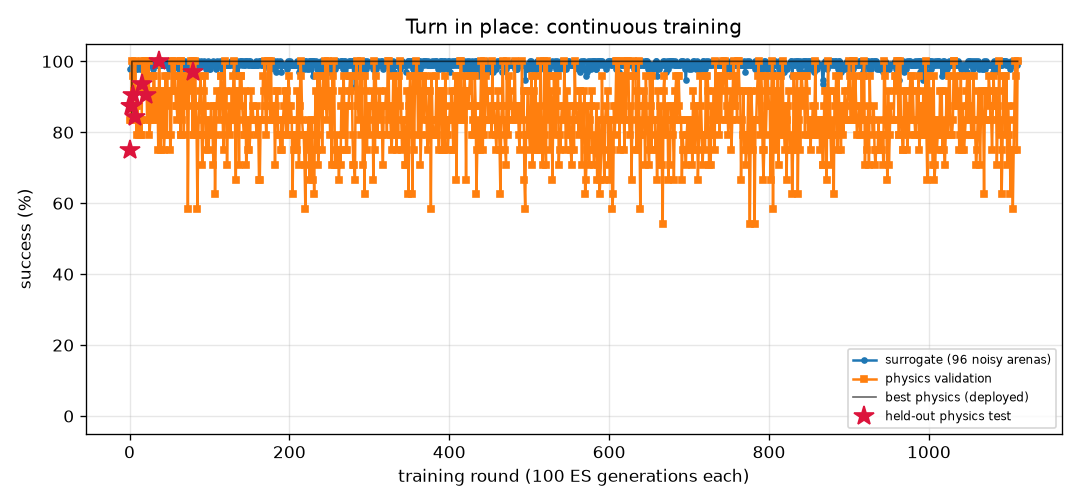
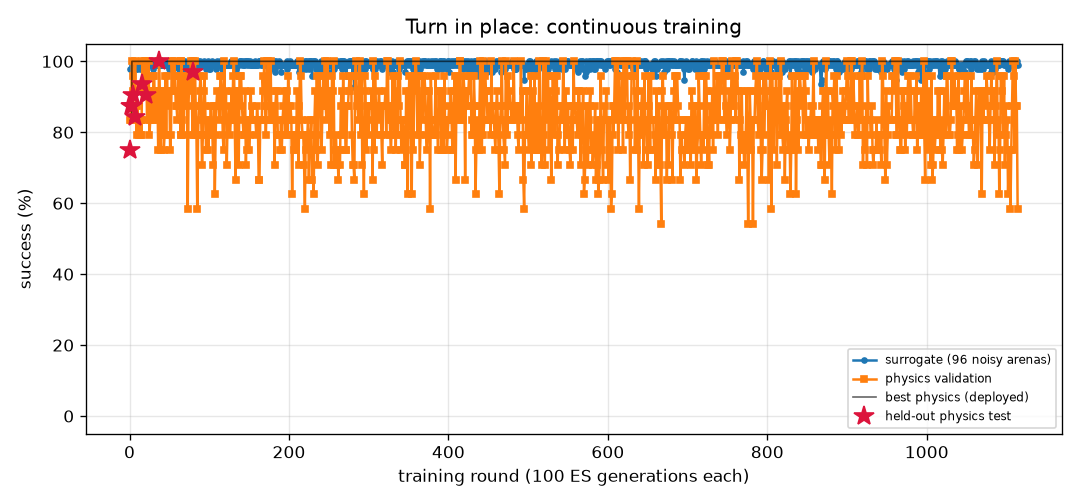
FlyLab: continuous training progress
- walk_forward: optimal, physics val 100% of 24, round 411
- turn: optimal, physics val 100% of 24, round 1114
- goto: optimal, physics val 100% of 24, round 317
- odor_seek: optimal, physics val 100% of 24, round 257
- odor_avoid: optimal, physics val 100% of 24, round 966
- light_seek: optimal, physics val 100% of 24, round 518
- light_avoid: optimal, physics val 100% of 24, round 683

diff --git a/projects/09_flylab/training/odor_avoid/REPORT.md b/projects/09_flylab/training/odor_avoid/REPORT.md
@@ -1,14 +1,14 @@
 # Escape a bad smell (`odor_avoid`) — training report
 
-*Auto-generated by `train_brains.py`, last updated 2026-11-17T22:13:48.*
+*Auto-generated by `train_brains.py`, last updated 2026-11-18T02:02:24.*
 
 ![curve](curve.png)
 
 | | |
 |---|---|
-| rounds | 962 |
-| ES generations | 96200 |
-| physics runs | 20394 |
+| rounds | 966 |
+| ES generations | 96600 |
+| physics runs | 20490 |
 | status | **optimal** |
 | best brain | round 373: physics validation **100%** on 24 arenas, surrogate 97% |
 | held-out physics test | **97%** on 32 unseen arenas (95% CI 84%-99%) (errors: [62.0, 57.4, 62.6, 61.9, 59.0, 61.6, 56.5, 60.7, 31.7, 60.9, 63.1, 57.1, 61.1, 62.1, 61.5, 60.2, 62.2, 55.2, 62.1, 54.2, 61.3, 62.0, 58.0, 61.9, 59.8, 56.5, 56.3, 56.4, 56.3, 57.7, 61.9, 32.4]) |
@@ -17,10 +17,6 @@ Physics error per arena: mm gained away from source (> 6 without first approachi
 
 | round | level | gens | sigma | surrogate | physics val | val errors | test | note |
 |---:|---:|---:|---:|---:|---:|---|---:|---|
-| 923 | 3 | 92300 | 0.025 | 94% | 100% | [62.9, 60.7, 58.4, 61.2, 58.2, 51.8, 61.2, 58.9, 61.5, 34.1, 56.7, 59.6, 52.0, 55.2, 31.0, 60.2, 60.6, 47.2, 52.2, 60.7, 60.3, 46.1, 59.7, 62.4] |  |  |
-| 924 | 3 | 92400 | 0.028 | 95% | 100% | [63.0, 60.6, 58.0, 55.1, 61.5, 62.1, 61.1, 61.8, 60.1, 61.7, 60.9, 60.7, 52.8, 57.8, 50.8, 61.5, 59.5, 61.7, 53.5, 57.6, 60.6, 62.2, 57.9, 60.6] |  |  |
-| 925 | 3 | 92500 | 0.027 | 95% | 96% | [61.2, 60.3, 55.4, 60.8, 61.7, 61.8, 61.7, 61.0, 61.4, 60.9, 57.3, 61.3, 53.3, 56.4, 38.4, 61.8, 61.5, 61.9, 55.0, 58.9, 61.8, 61.9, 60.7, 61.3] |  | restart from best |
-| 926 | 3 | 92600 | 0.026 | 96% | 96% | [61.3, 58.8, 57.0, 60.4, 62.1, 60.4, 61.6, 49.9, 60.3, 56.1, 61.6, 61.7, 54.8, 57.0, 50.0, 61.1, 61.7, 60.6, 55.0, 59.9, 62.2, 61.6, 59.3, 30.1] |  |  |
 | 927 | 3 | 92700 | 0.026 | 94% | 100% | [61.5, 58.9, 56.6, 60.8, 60.5, 61.8, 61.6, 39.5, 61.9, 48.9, 58.9, 61.1, 51.8, 55.3, 46.6, 61.9, 61.8, 60.0, 54.6, 56.8, 61.2, 61.6, 59.4, 62.2] |  |  |
 | 928 | 3 | 92800 | 0.028 | 97% | 96% | [59.6, 55.6, 56.5, 58.8, 60.9, 61.1, 60.5, 54.3, 61.0, 43.8, 59.6, 61.0, 53.7, 57.6, 44.0, 60.1, 61.4, 59.6, 54.5, 55.0, 60.9, 42.9, 59.3, 50.1] |  |  |
 | 929 | 3 | 92900 | 0.026 | 95% | 100% | [60.4, 53.7, 56.4, 53.8, 61.3, 60.2, 58.5, 46.7, 59.2, 43.3, 60.7, 61.2, 53.7, 56.5, 50.8, 60.4, 61.7, 60.2, 54.1, 52.7, 61.5, 60.0, 58.1, 54.7] |  | restart from best |
@@ -57,3 +53,7 @@ Physics error per arena: mm gained away from source (> 6 without first approachi
 | 960 | 3 | 96000 | 0.026 | 95% | 96% | [60.4, 57.2, 54.9, 58.8, 59.9, 59.2, 59.1, 44.5, 59.5, 59.4, 60.0, 59.8, 53.6, 55.1, 47.1, 59.5, 59.7, 59.7, 53.7, 55.2, 59.9, 58.2, 57.3, 57.7] |  |  |
 | 961 | 3 | 96100 | 0.027 | 96% | 92% | [59.0, 57.6, 54.0, 57.9, 58.5, 58.7, 58.7, 46.7, 59.2, 56.7, 57.1, 58.7, 50.4, 50.8, 35.2, 57.7, 59.0, 59.2, 48.1, 56.3, 58.8, 55.7, 56.9, 56.7] |  | restart from best |
 | 962 | 3 | 96200 | 0.026 | 97% | 96% | [62.9, 59.2, 56.0, 61.5, 62.2, 61.9, 61.1, 41.9, 61.0, 58.1, 61.8, 61.7, 52.2, 55.3, 36.6, 60.4, 62.2, 61.7, 55.0, 57.2, 62.2, 60.5, 58.9, 57.4] |  |  |
+| 963 | 3 | 96300 | 0.026 | 93% | 96% | [63.3, 60.8, 56.4, 60.9, 61.3, 62.6, 60.6, 63.4, 61.9, 62.6, 60.4, 61.5, 44.3, 54.5, 37.1, 60.9, 61.1, 62.2, 53.4, 61.1, 61.3, 63.4, 61.3, 63.6] |  |  |
+| 964 | 3 | 96400 | 0.028 | 95% | 92% | [60.0, 58.6, 56.1, 59.5, 61.3, 61.9, 61.1, 61.9, 61.2, 61.2, 56.5, 60.9, 49.0, 52.8, 36.0, 60.8, 60.8, 60.0, 51.0, 57.8, 60.9, 61.8, 56.2, 62.0] |  |  |
+| 965 | 3 | 96500 | 0.027 | 96% | 100% | [57.4, 50.0, 53.5, 53.8, 55.3, 55.6, 53.2, 45.2, 53.5, 54.2, 53.8, 57.3, 47.6, 52.8, 28.2, 53.9, 57.4, 55.0, 49.5, 50.0, 57.0, 52.6, 54.1, 53.5] |  | restart from best |
+| 966 | 3 | 96600 | 0.026 | 96% | 100% | [63.0, 60.9, 57.8, 58.8, 60.4, 59.4, 61.8, 18.9, 60.6, 52.6, 38.0, 60.1, 51.9, 55.6, 38.5, 61.4, 60.5, 59.0, 52.2, 55.4, 59.8, 37.5, 58.6, 60.4] |  |  |

diff --git a/projects/09_flylab/training/turn/REPORT.md b/projects/09_flylab/training/turn/REPORT.md
@@ -1,14 +1,14 @@
 # Turn in place (`turn`) — training report
 
-*Auto-generated by `train_brains.py`, last updated 2026-11-18T01:13:50.*
+*Auto-generated by `train_brains.py`, last updated 2026-11-18T01:41:07.*
 
 ![curve](curve.png)
 
 | | |
 |---|---|
-| rounds | 1111 |
-| ES generations | 111100 |
-| physics runs | 26910 |
+| rounds | 1114 |
+| ES generations | 111400 |
+| physics runs | 26982 |
 | status | **optimal** |
 | best brain | round 80: physics validation **100%** on 24 arenas, surrogate 100% |
 | held-out physics test | **97%** on 32 unseen arenas (95% CI 84%-99%) (errors: [1.6, 3.3, 6.3, 3.7, 1.1, 0.4, 2.4, 2.9, 0.1, 2.6, 0.5, 2.7, 1.5, 3.1, 4.5, 0.2, 0.5, 1.1, 2.0, 4.4, 2.8, 3.2, 0.3, 2.2, 0.5, 3.0, 0.3, 5.4, 0.4, 1.0, 4.7, 10.7]) |
@@ -17,9 +17,6 @@ Physics error per arena: deg from target heading (< 20 = success).
 
 | round | level | gens | sigma | surrogate | physics val | val errors | test | note |
 |---:|---:|---:|---:|---:|---:|---|---:|---|
-| 1072 | 3 | 107200 | 0.025 | 100% | 92% | [2.9, 1.1, 5.8, 3.3, 2.7, 2.2, 5.9, 5.8, 6.4, 1.8, 6.1, 2.2, 1.4, 1.5, 3.5, 2.5, 2.3, 2.7, 2.9, 2.4, 3.4, 1.8, 7.7, 6.3] |  | restart from best |
-| 1073 | 3 | 107300 | 0.024 | 99% | 92% | [3.2, 8.2, 1.1, 3.7, 2.3, 1.3, 3.8, 0.6, 3.9, 1.7, 4.1, 0.7, 2.5, 2.0, 3.5, 1.2, 1.1, 1.2, 1.7, 1.6, 5.8, 0.4, 2.5, 2.4] |  |  |
-| 1074 | 3 | 107400 | 0.025 | 99% | 88% | [1.9, 1.7, 5.7, 0.8, 16.5, 1.5, 6.0, 5.4, 6.9, 14.9, 3.7, 1.8, 0.4, 0.4, 3.1, 4.0, 1.7, 1.7, 1.2, 1.6, 2.6, 0.1, 6.7, 6.9] |  |  |
 | 1075 | 3 | 107500 | 0.025 | 99% | 96% | [4.7, 8.6, 2.3, 3.1, 1.0, 0.2, 2.6, 0.6, 2.9, 0.5, 1.8, 0.6, 3.0, 3.8, 1.1, 1.6, 0.7, 0.3, 0.9, 0.3, 5.6, 0.1, 5.0, 0.1] |  |  |
 | 1076 | 3 | 107600 | 0.025 | 99% | 92% | [7.8, 9.8, 2.6, 3.0, 1.5, 4.2, 2.0, 3.3, 2.0, 2.7, 1.8, 3.0, 3.5, 4.7, 1.7, 2.7, 1.7, 1.8, 2.8, 0.2, 6.0, 2.9, 2.5, 0.9] |  | restart from best |
 | 1077 | 3 | 107700 | 0.024 | 99% | 83% | [3.7, 5.3, 2.2, 1.2, 12.6, 3.2, 3.9, 0.8, 5.8, 1.1, 4.2, 1.1, 0.9, 2.5, 3.6, 0.4, 1.3, 3.1, 0.7, 0.2, 4.2, 1.7, 6.3, 5.3] |  |  |
@@ -57,3 +54,6 @@ Physics error per arena: deg from target heading (< 20 = success).
 | 1109 | 3 | 110900 | 0.024 | 99% | 96% | [6.6, 9.0, 5.4, 4.9, 2.2, 3.4, 2.2, 0.1, 3.1, 0.9, 2.0, 2.4, 0.9, 5.2, 1.8, 2.1, 2.2, 1.6, 2.6, 2.9, 5.4, 0.5, 3.1, 3.2] |  |  |
 | 1110 | 3 | 111000 | 0.025 | 99% | 75% | [2.3, 7.2, 0.6, 1.3, 4.1, 1.6, 5.3, 8.0, 5.8, 0.8, 5.5, 0.9, 3.9, 2.1, 3.7, 2.1, 0.2, 2.1, 7.4, 0.2, 4.8, 3.8, 4.2, 7.0] |  |  |
 | 1111 | 3 | 111100 | 0.025 | 100% | 100% | [1.5, 3.5, 4.1, 0.2, 1.9, 1.2, 6.3, 7.9, 5.2, 0.1, 4.2, 1.2, 0.0, 1.2, 4.4, 2.0, 1.5, 2.8, 6.2, 2.1, 4.4, 1.6, 6.1, 5.3] |  |  |
+| 1112 | 3 | 111200 | 0.024 | 99% | 88% | [4.9, 9.7, 7.3, 1.8, 1.1, 0.9, 3.8, 5.2, 3.4, 0.4, 2.5, 1.3, 1.7, 4.0, 2.4, 0.5, 1.2, 0.5, 0.7, 0.1, 3.1, 0.6, 3.0, 0.8] |  | restart from best |
+| 1113 | 3 | 111300 | 0.024 | 100% | 88% | [8.1, 8.3, 4.9, 3.6, 4.4, 5.7, 3.0, 2.7, 3.7, 1.3, 3.2, 1.8, 0.7, 4.3, 3.8, 0.2, 2.2, 1.7, 0.2, 2.4, 6.9, 0.6, 4.5, 4.9] |  |  |
+| 1114 | 3 | 111400 | 0.024 | 99% | 58% | [9.1, 10.9, 4.9, 3.8, 0.6, 5.6, 3.9, 6.6, 4.1, 1.9, 0.8, 2.2, 0.5, 2.7, 1.9, 1.2, 3.8, 0.5, 1.4, 3.9, 6.3, 1.3, 2.5, 3.1] |  |  |

diff --git a/projects/09_flylab/training/light_avoid/REPORT.md b/projects/09_flylab/training/light_avoid/REPORT.md
@@ -1,14 +1,14 @@
 # Hide from light (`light_avoid`) — training report
 
-*Auto-generated by `train_brains.py`, last updated 2026-11-17T22:20:03.*
+*Auto-generated by `train_brains.py`, last updated 2026-11-18T02:02:31.*
 
 ![curve](curve.png)
 
 | | |
 |---|---|
-| rounds | 681 |
-| ES generations | 68100 |
-| physics runs | 16616 |
+| rounds | 683 |
+| ES generations | 68300 |
+| physics runs | 16664 |
 | status | **optimal** |
 | best brain | round 159: physics validation **100%** on 24 arenas, surrogate 100% |
 | held-out physics test | **100%** on 32 unseen arenas (95% CI 89%-100%) (errors: [14.4, 56.1, 58.0, 57.9, 57.5, 14.0, 14.4, 56.6, 56.8, 13.3, 14.1, 56.6, 57.6, 13.1, 57.3, 55.9, 57.2, 55.0, 55.2, 53.9, 55.2, 12.4, 53.8, 53.7, 14.1, 13.7, 55.0, 57.8, 56.2, 13.1, 52.8, 56.5]) |
@@ -17,8 +17,6 @@ Physics error per arena: mm gained away from source (> 6 without first approachi
 
 | round | level | gens | sigma | surrogate | physics val | val errors | test | note |
 |---:|---:|---:|---:|---:|---:|---|---:|---|
-| 642 | 3 | 64200 | 0.024 | 100% | 100% | [54.9, 56.3, 56.0, 54.9, 56.0, 55.2, 54.8, 14.5, 52.4, 13.2, 55.7, 55.9, 14.4, 55.4, 56.2, 54.8, 14.2, 56.5, 56.6, 14.4, 53.1, 55.9, 54.4, 55.4] |  |  |
-| 643 | 3 | 64300 | 0.024 | 100% | 100% | [42.6, 44.8, 43.4, 44.2, 46.8, 44.2, 42.3, 14.5, 42.7, 13.4, 46.1, 47.1, 14.4, 46.7, 44.5, 45.2, 14.2, 46.7, 44.7, 14.4, 46.4, 46.7, 42.4, 46.9] |  | restart from best |
 | 644 | 3 | 64400 | 0.024 | 100% | 100% | [47.5, 49.4, 49.4, 47.4, 46.0, 47.2, 49.2, 14.5, 44.7, 13.1, 47.9, 45.8, 14.4, 49.7, 49.5, 47.4, 14.2, 47.4, 49.3, 14.4, 46.6, 48.0, 48.8, 44.8] |  |  |
 | 645 | 3 | 64500 | 0.024 | 100% | 100% | [34.8, 35.7, 35.3, 33.5, 31.3, 34.0, 36.4, 14.5, 32.8, 13.4, 34.8, 31.3, 14.4, 37.3, 35.0, 34.0, 14.2, 31.3, 35.0, 14.4, 32.1, 35.5, 35.9, 32.1] |  |  |
 | 646 | 3 | 64600 | 0.024 | 100% | 100% | [40.6, 40.4, 40.1, 40.7, 44.4, 39.5, 37.5, 14.5, 37.2, 13.5, 39.2, 44.4, 14.4, 39.0, 39.0, 40.5, 14.2, 41.8, 40.8, 14.4, 41.0, 38.3, 37.0, 42.5] |  |  |
@@ -57,3 +55,5 @@ Physics error per arena: mm gained away from source (> 6 without first approachi
 | 679 | 3 | 67900 | 0.024 | 100% | 100% | [58.1, 59.9, 59.7, 55.7, 59.6, 56.8, 58.5, 14.5, 55.7, 13.3, 59.3, 59.5, 14.4, 56.8, 60.0, 56.6, 14.2, 60.2, 60.4, 14.4, 57.0, 58.8, 58.1, 58.9] |  | restart from best |
 | 680 | 3 | 68000 | 0.024 | 100% | 100% | [56.6, 61.2, 61.0, 58.1, 60.3, 58.1, 59.8, 14.5, 10.0, 13.3, 60.2, 60.1, 14.4, 57.7, 61.1, 58.0, 14.2, 60.9, 61.5, 14.4, 57.6, 60.1, 59.6, 59.4] |  |  |
 | 681 | 3 | 68100 | 0.024 | 100% | 100% | [37.3, 37.6, 36.5, 38.8, 40.8, 38.0, 34.8, 14.5, 35.7, 13.4, 39.8, 41.3, 14.4, 39.0, 36.9, 39.0, 14.2, 40.1, 38.8, 14.4, 40.3, 39.5, 34.3, 41.6] |  |  |
+| 682 | 3 | 68200 | 0.024 | 100% | 100% | [49.4, 51.6, 50.9, 50.8, 54.6, 50.5, 48.4, 14.5, 45.9, 13.6, 52.4, 54.5, 14.4, 53.7, 51.1, 50.5, 14.2, 54.1, 51.4, 14.4, 47.6, 52.2, 48.7, 54.7] |  |  |
+| 683 | 3 | 68300 | 0.024 | 100% | 100% | [56.2, 60.1, 60.1, 57.2, 57.1, 57.0, 59.6, 14.5, 55.2, 13.1, 58.9, 57.1, 14.4, 55.3, 60.2, 57.8, 14.2, 58.3, 60.2, 14.4, 57.6, 59.0, 59.4, 56.2] |  | restart from best |

diff --git a/projects/09_flylab/training/TRAINING.md b/projects/09_flylab/training/TRAINING.md
@@ -1,15 +1,15 @@
 # FlyLab brains — continuous training log
 
-*Auto-generated by `train_brains.py`, last updated 2026-11-18T01:17:36.*
+*Auto-generated by `train_brains.py`, last updated 2026-11-18T02:02:31.*
 
 Every skill has its own brain and its own training process: surrogate ES rounds, physics validation in MuJoCo, keep-the-best selection, and a held-out physics test that is never used for selection. See each skill's report for its full round-by-round history. Mastery is progressive: passing a level (100% physics validation, >=95% surrogate) doubles the validation and test arena sets; a brain is **optimal** once it holds up at level 3 (>=95% of 24 validation arenas) AND scores >=90% on the 32 held-out test arenas. Test columns show 95% Wilson confidence intervals.
 
 | skill | rounds | ES generations | physics runs | surrogate | physics val | **physics test** | status |
 |---|---:|---:|---:|---:|---:|---:|---|
 | [Walk forward](walk_forward/REPORT.md) | 411 | 41100 | 9878 | 100% | 100% of 24 | 100% of 32 (CI 89-100%) | **optimal** |
-| [Turn in place](turn/REPORT.md) | 1111 | 111100 | 26910 | 100% | 100% of 24 | 97% of 32 (CI 84-99%) | **optimal** |
+| [Turn in place](turn/REPORT.md) | 1114 | 111400 | 26982 | 100% | 100% of 24 | 97% of 32 (CI 84-99%) | **optimal** |
 | [Go to a location](goto/REPORT.md) | 317 | 31700 | 7558 | 100% | 100% of 24 | 100% of 32 (CI 89-100%) | **optimal** |
 | [Find food by smell](odor_seek/REPORT.md) | 257 | 25700 | 5662 | 100% | 100% of 24 | 100% of 32 (CI 89-100%) | **optimal** |
-| [Escape a bad smell](odor_avoid/REPORT.md) | 962 | 96200 | 20394 | 97% | 100% of 24 | 97% of 32 (CI 84-99%) | **optimal** |
+| [Escape a bad smell](odor_avoid/REPORT.md) | 966 | 96600 | 20490 | 97% | 100% of 24 | 97% of 32 (CI 84-99%) | **optimal** |
 | [Walk toward light](light_seek/REPORT.md) | 518 | 51800 | 9312 | 100% | 100% of 24 | 100% of 32 (CI 89-100%) | **optimal** |
-| [Hide from light](light_avoid/REPORT.md) | 681 | 68100 | 16616 | 100% | 100% of 24 | 100% of 32 (CI 89-100%) | **optimal** |
+| [Hide from light](light_avoid/REPORT.md) | 683 | 68300 | 16664 | 100% | 100% of 24 | 100% of 32 (CI 89-100%) | **optimal** |
